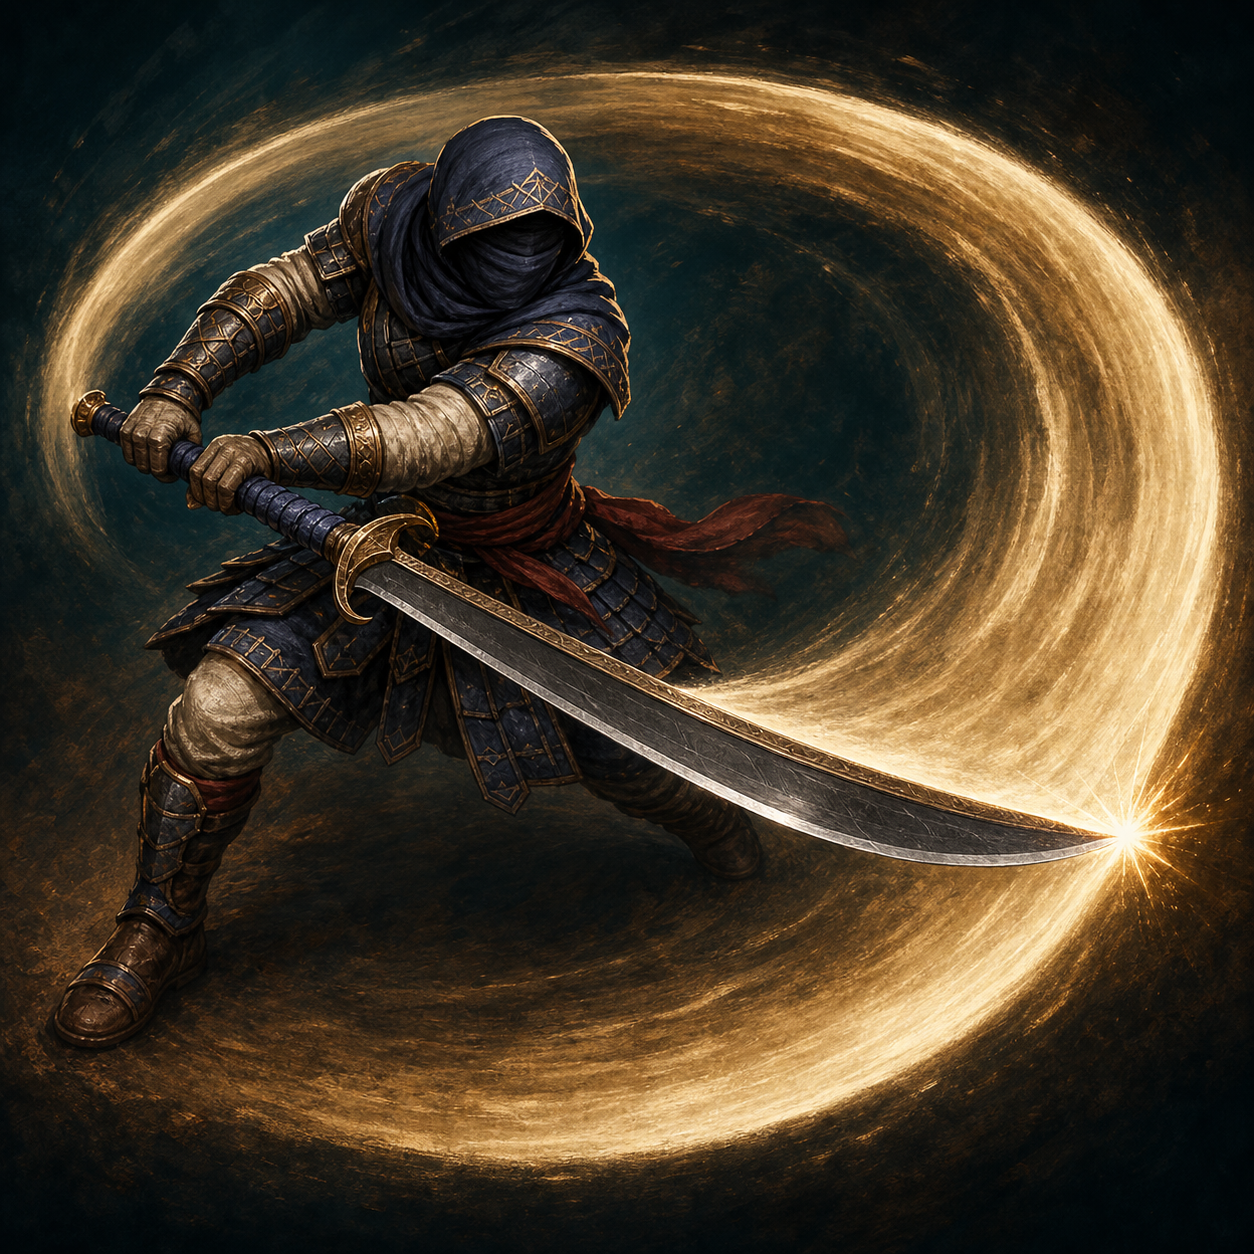
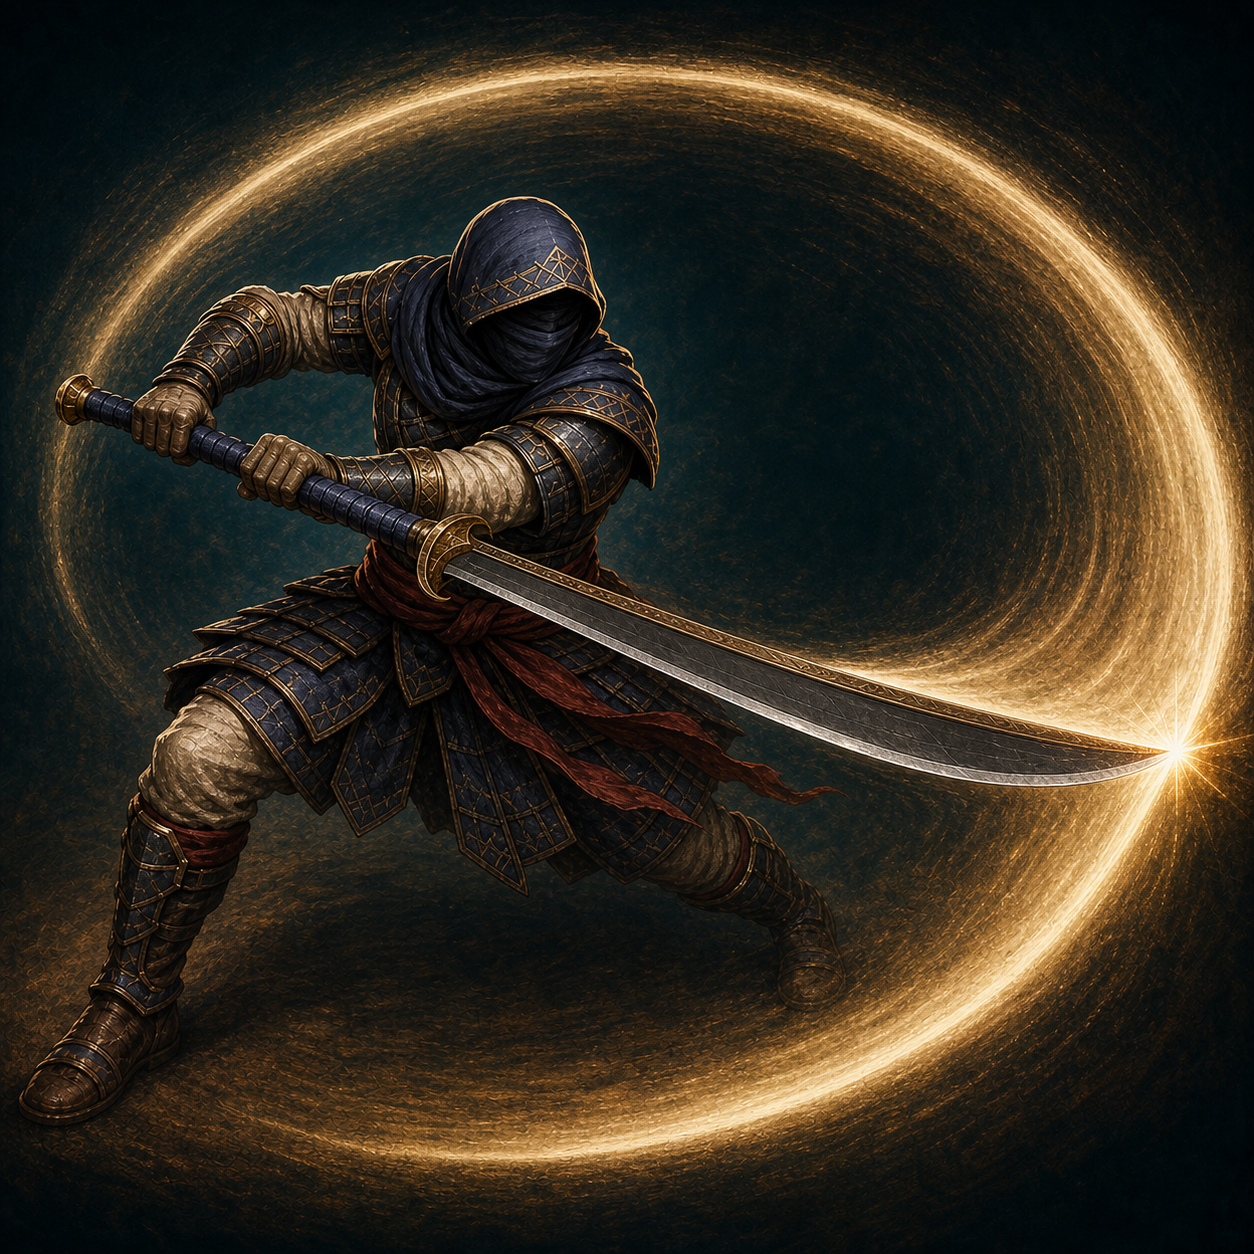
Correct Orbital Cleave weapon physics

diff --git a/python_scripts/weapon_art_icons/prompts/aow_41_orbital_cleave.md b/python_scripts/weapon_art_icons/prompts/aow_41_orbital_cleave.md
@@ -1,6 +1,6 @@
 # Orbital Cleave
 
-**Status:** Finalized from the single goal-mode generation attempt on 2026-08-24
+**Status:** Finalized by owner-directed anatomical correction on 2026-08-24
 
 **Stable icon key:** `aow_41_orbital_cleave`
 
@@ -31,7 +31,28 @@ HARD CONSTRAINTS: exactly one faceless full-body Redguard, exactly one connected
 
 ## Final hard-gate result
 
-- Full-resolution result: pass. One connected curved greatsword visibly leads one continuous orbiting wake; the Redguard figure explains the motion without becoming portrait framing.
-- 32 px LANCZOS reduction: pass. The bright open orbit and the dark curved blade remain a strong distinct glyph with no duplicate weapon.
[1 lines of base64/hex data omitted]
-- No autonomous regeneration was attempted.
+- The initial result failed owner review because its two-handed grip was anatomically and
+  mechanically implausible. It is preserved at
+  `python_scripts/weapon_art_icons/pilot/aow_41_orbital_cleave_bad_grip_superseded.png`.
+
+## Owner-directed correction prompt
+
+```text
+Redo the supplied Orbital Cleave MMO ability icon while preserving its strongest identity: one faceless Redguard, one curved two-handed greatsword, the indigo/bronze/sand palette, and one bright circular blade-connected physical wake. Correct the entire pose and grip so the weapon physics are anatomically possible.
+
+The sword must have one continuous long hilt behind the guard, visibly long enough for two hands. Put the lead hand fully closed around the leather-wrapped grip immediately behind the guard. Put the rear hand fully closed around the same grip near the pommel, with clear space between the hands. Both thumbs and knuckles align for the same horizontal cut; both wrists remain neutral rather than bent backward. No finger, palm, or hand touches the blade, spine, guard, empty air, or pommel knob. Both forearms connect naturally to those hands, elbows flex within normal range, shoulders rotate with the torso, and the planted legs visibly counterbalance the sword's forward mass.
+
+Freeze one plausible terminal horizontal cleave from left toward right: hips and shoulders rotated together, front knee bent, rear foot braced, sword edge leading its path. The one ivory-gold wake must be tangent to and immediately behind the moving cutting edge, remain visibly connected to the sword tip, and sweep around the body as one open near-circle. It may not hide the corrected hands or hilt.
+
+Keep it a crisp graphical Elder Scrolls MMO hotbar icon at 1:1, with the full-body action subordinate to the sword and one wake. Exactly one figure, one anatomically gripped connected sword, and one connected wake. No second blade, floating weapon, detached hilt, extra hand, missing finger mass, crossed wrists, hand on blade, perfect halo, extra trail, magic element, portrait, text, logo, border, or scenery.
+```
+
+## Corrected hard-gate result
+
+- Full-resolution result: pass. Both hands close around one continuous hilt with plausible spacing;
+  wrists, elbows, shoulders, hips, planted legs, blade edge, and trailing wake agree on one horizontal
+  two-handed cleave.
+- 32 px LANCZOS reduction: pass. The bright open orbit and the dark curved blade remain a strong
+  distinct glyph with no duplicate weapon.
[1 lines of base64/hex data omitted]
+- No autonomous regeneration beyond the explicit owner-directed correction was attempted.

diff --git a/.scratch/weapon-arts/icon-authoring-handoff.md b/.scratch/weapon-arts/icon-authoring-handoff.md
@@ -16,6 +16,11 @@ across the remaining atlas. Use `figure-guidance.md` and `color-guidance.md`; in
 Orsimer, Altmer, Dunmer, axes, maces, and other compatible silhouettes instead of defaulting to a
 neutral sword fighter. Animation and payload evidence still win, and race never invents an element.
 
+Mandatory owner physics gate from 2026-08-24: before finalizing any generation, verify that anatomy
+and physics are possible. Check supported center of gravity, joint ranges, hand placement and grip
+continuity, wrist/elbow/shoulder force path, weapon leverage and counterbalance, striking-edge
+direction, and trail causality. A polished image with an impossible grip or action is a hard failure.
+
 Do not restart the set and do not regenerate Crane Style through Disengage. Their approved assets,
 prompts, and notes are already recorded in `python_scripts/weapon_art_icons/manifest.tsv`.
 
@@ -268,6 +273,11 @@ Goal-mode one-shot finalized on 2026-08-24. One long WEAPON collision window and
 become one sustained physical orbiting cut: one faceless Redguard, one connected two-handed curved
 greatsword, and one continuous blade-led ivory-gold wake. Unresolved endurance, paralysis, and
 enchantment names add no magic. Full and 32 px results passed.
+
+Owner correction: the first otherwise-polished result had an impossible two-handed sword grip and
+was superseded. The corrected master places both closed hands on one continuous long hilt with
+plausible spacing, neutral wrists, connected forearms, supported stance, and a blade-led wake. This
+correction established the mandatory anatomy-and-physics gate for every subsequent generation.
 
 ## Dual Flurry context-layer pivot
 

diff --git a/python_scripts/weapon_art_icons/prompt-brief-template.md b/python_scripts/weapon_art_icons/prompt-brief-template.md
@@ -18,7 +18,9 @@ meaning; the agent owns the prompt engineering.
 - Body state: grounded, airborne, turning, recoiling, retreating, or braced:
 - Center of gravity and direction of travel:
 - Torso, shoulders, arms, and legs:
-- Weapon count, type, grip, paths, and final endpoints:
+- Weapon count, type, grip, hand spacing, leverage, paths, and final endpoints:
+- Anatomy/physics sanity: supported center of gravity; plausible joint ranges; wrists, elbows, and
+  shoulders able to transmit the force; weapon mass visibly counterbalanced:
 - Camera and dominant action axis:
 
 ## Skyrim identity
@@ -49,6 +51,8 @@ not inherited.
 - [ ] The owner-directed action is visible in the body, not only in VFX.
 - [ ] The archetype is specific enough that clothing cannot drift into another Skyrim identity.
 - [ ] Weapon count, type, grip, and trajectory are coherent.
+- [ ] Anatomy and physics are possible: weight is supported, joints are plausible, every hand closes
+      on its intended grip, and the weapon can actually be accelerated along the depicted path.
 - [ ] Every dominant trail is physically caused by a weapon or body path.
 - [ ] Camera, crop, and action axis are explicit.
 - [ ] The effect and figure remain readable at 32 px.

diff --git a/.agents/skills/skyrim-weapon-art-icon-prompter/SKILL.md b/.agents/skills/skyrim-weapon-art-icon-prompter/SKILL.md
@@ -87,8 +87,13 @@ an edit target only when the user explicitly wants to preserve substantial parts
 Before calling an image tool, verify all of the following:
 
 - the figure is performing the requested action rather than posing;
+- the anatomy and physics are possible: center of gravity is supported, joints stay within plausible
+  range, hands close around the intended grip, wrists and elbows can transmit the stated force, and
+  the weapon's mass has a believable counterbalance;
 - clothing and armor match the resolved Skyrim archetype;
 - weapon type, count, grip, and visible geometry are correct;
+- the cutting edge or striking face leads the instantaneous motion, and the trail follows that same
+  mechanically possible path rather than disguising a broken pose;
 - each dominant effect is physically connected to its source;
 - the camera and action axis are explicit;
 - the image remains an MMO ability glyph rather than portrait or key art;

diff --git a/.scratch/weapon-arts/issues/06-procure-weapon-art-icons.md b/.scratch/weapon-arts/issues/06-procure-weapon-art-icons.md
@@ -350,6 +350,11 @@ continuous blade-led ivory-gold wake. Unresolved payload names add no magic. Ful
 passed. Thirty-seven of 57 icons are finalized; 17 remain unprocessed and three are recorded hard
 failures.
 
+Owner correction 2026-08-24: the first Orbital Cleave result was rejected for an impossible
+two-handed sword grip. The replacement keeps the Redguard/orbital identity but puts both hands on
+one continuous long hilt with plausible spacing, neutral wrists, connected arm leverage, and a
+supported stance. This establishes an explicit anatomy-and-physics sanity gate for all later icons.
+
 Owner correction 2026-08-24: **Magnetic Throw** was replaced. The gadget-like Breton/Dwemer disc is
 superseded by an arcane-trickster Altmer assassin throwing one cobalt-blue psychic Alinorian shadow
 blade with one continuous palm-to-pommel magnetic return tether. No disc, projectile copies, pink
